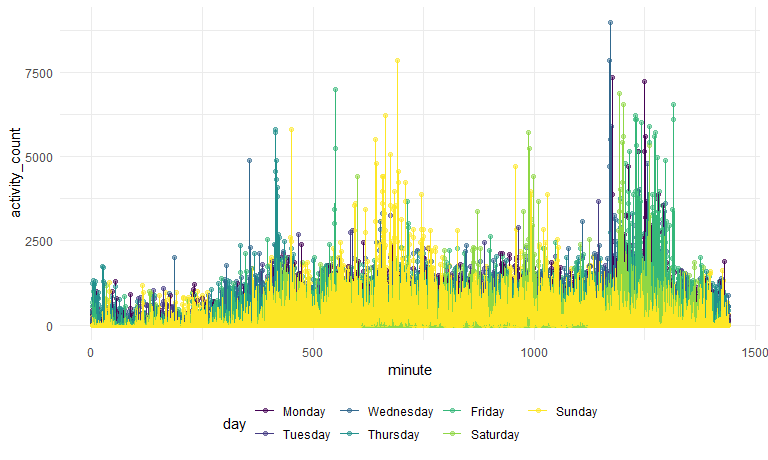
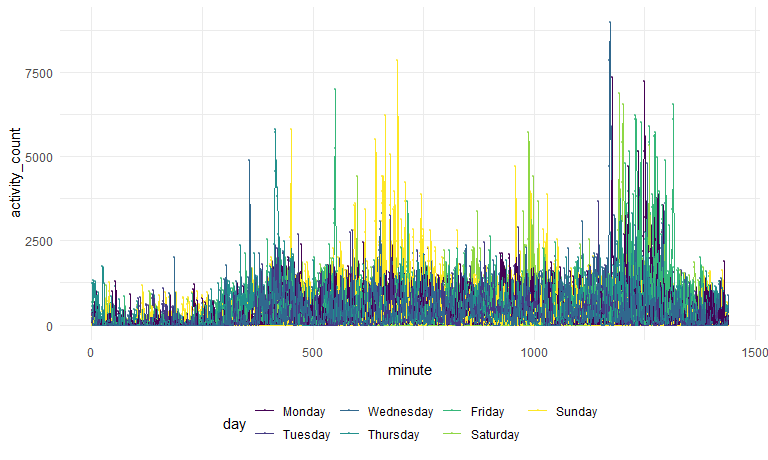
Final commit

Changed region(s): [[0.0938, 0.3043, 0.9688, 0.7304], [0.8438, 0.2739, 0.875, 0.3043], [0.8125, 0.2435, 0.8438, 0.2739]]

diff --git a/p8105_hw3_xl2834.md b/p8105_hw3_xl2834.md
@@ -144,8 +144,6 @@ accel_df = read_csv(
 
     ## See spec(...) for full column specifications.
 
-(day\_id makes no sense when ordered by day?)
-
 The dataset contains 50400 observations and 6 variables. There are
 variables for time – week, day id, day of the week, a variable
 indicating weekday/weekend, and the minute of that day. There is a
@@ -187,8 +185,8 @@ active on the Saturday of Week 4 and Week 5.
 ``` r
 accel_df %>% 
   group_by(day_id) %>% 
-  ggplot(aes(x = minute, y = activity_count, color = day)) +
-  geom_point(alpha = 0.5) +
+  ggplot(aes(x = minute, y = activity_count, color = day, group = day_id)) +
+  geom_point(alpha = 0.5, size = 0.5) +
   geom_line()
 ```
 
@@ -279,8 +277,10 @@ weather_df %>%
 The max temperatures fluctuated in both January (from around -12 to 10
 degrees C) and July (from around 20 to 32 degrees C) across the years,
 and the fluctuation is larger in January. In 1994 and 2004, the tmax in
-January is lower than usual. There are outliers in January in 1982, 2004
-and 2005, and in July in 1984 and 2004.
+January is lower than usual. The mean maximum temperature in January has
+a slight increase trend over the years, which may indicate global
+warming. There are outliers in January in 1982, 2004 and 2005, and in
+July in 1984 and 2004.
 
 #### Another two-panel plot
 
@@ -301,9 +301,7 @@ weather_df %>%
     x = "Minimum temperature (C)",
     y = "Maxiumum temperature (C)"
   )
-```
 
-``` r
 snow_dstrb_p =
 weather_df %>% 
   filter(snow > 0, snow < 100) %>% 
@@ -327,11 +325,11 @@ weather_df %>%
     ## [1] "labels"
 
 ``` r
-tmax_tmin_p / snow_dstrb_p
+  tmax_tmin_p / snow_dstrb_p
 ```
 
     ## Warning: Removed 1136276 rows containing non-finite values (stat_binhex).
 
     ## Warning: Removed 30 rows containing missing values (geom_segment).
 
-<img src="p8105_hw3_xl2834_files/figure-gfm/unnamed-chunk-15-1.png" width="90%" />
+<img src="p8105_hw3_xl2834_files/figure-gfm/unnamed-chunk-13-1.png" width="90%" />
